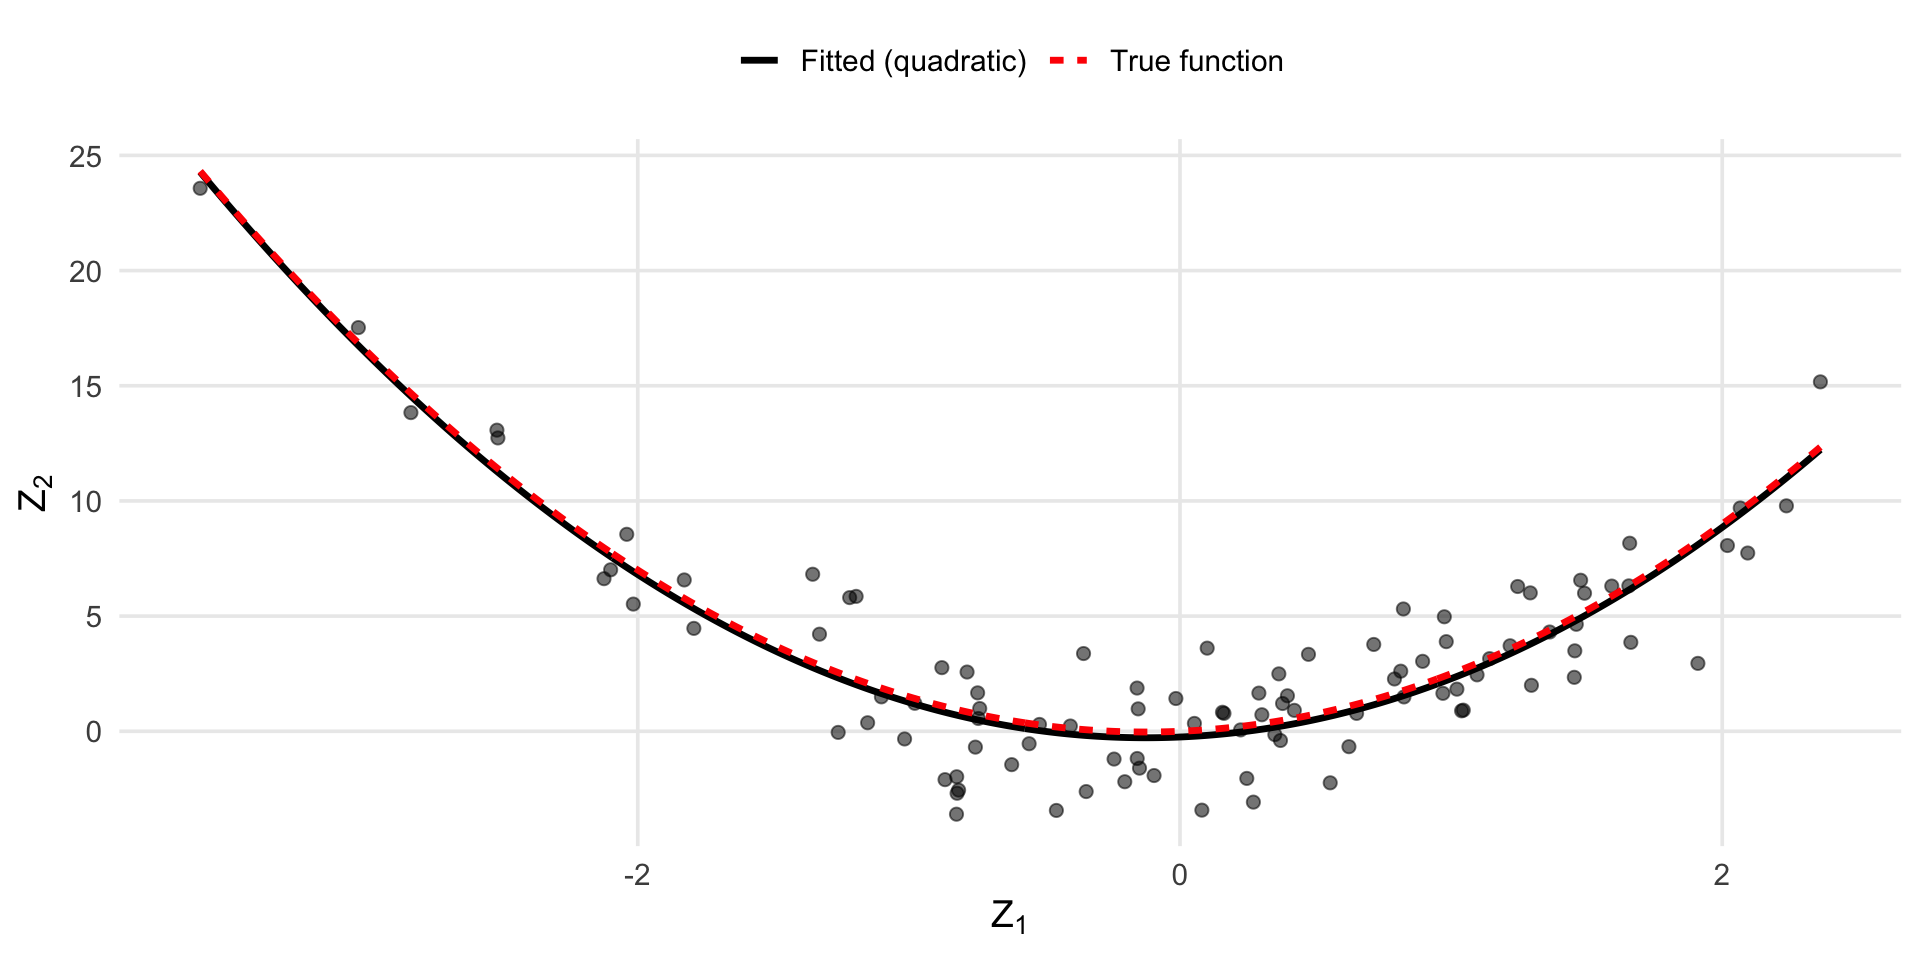
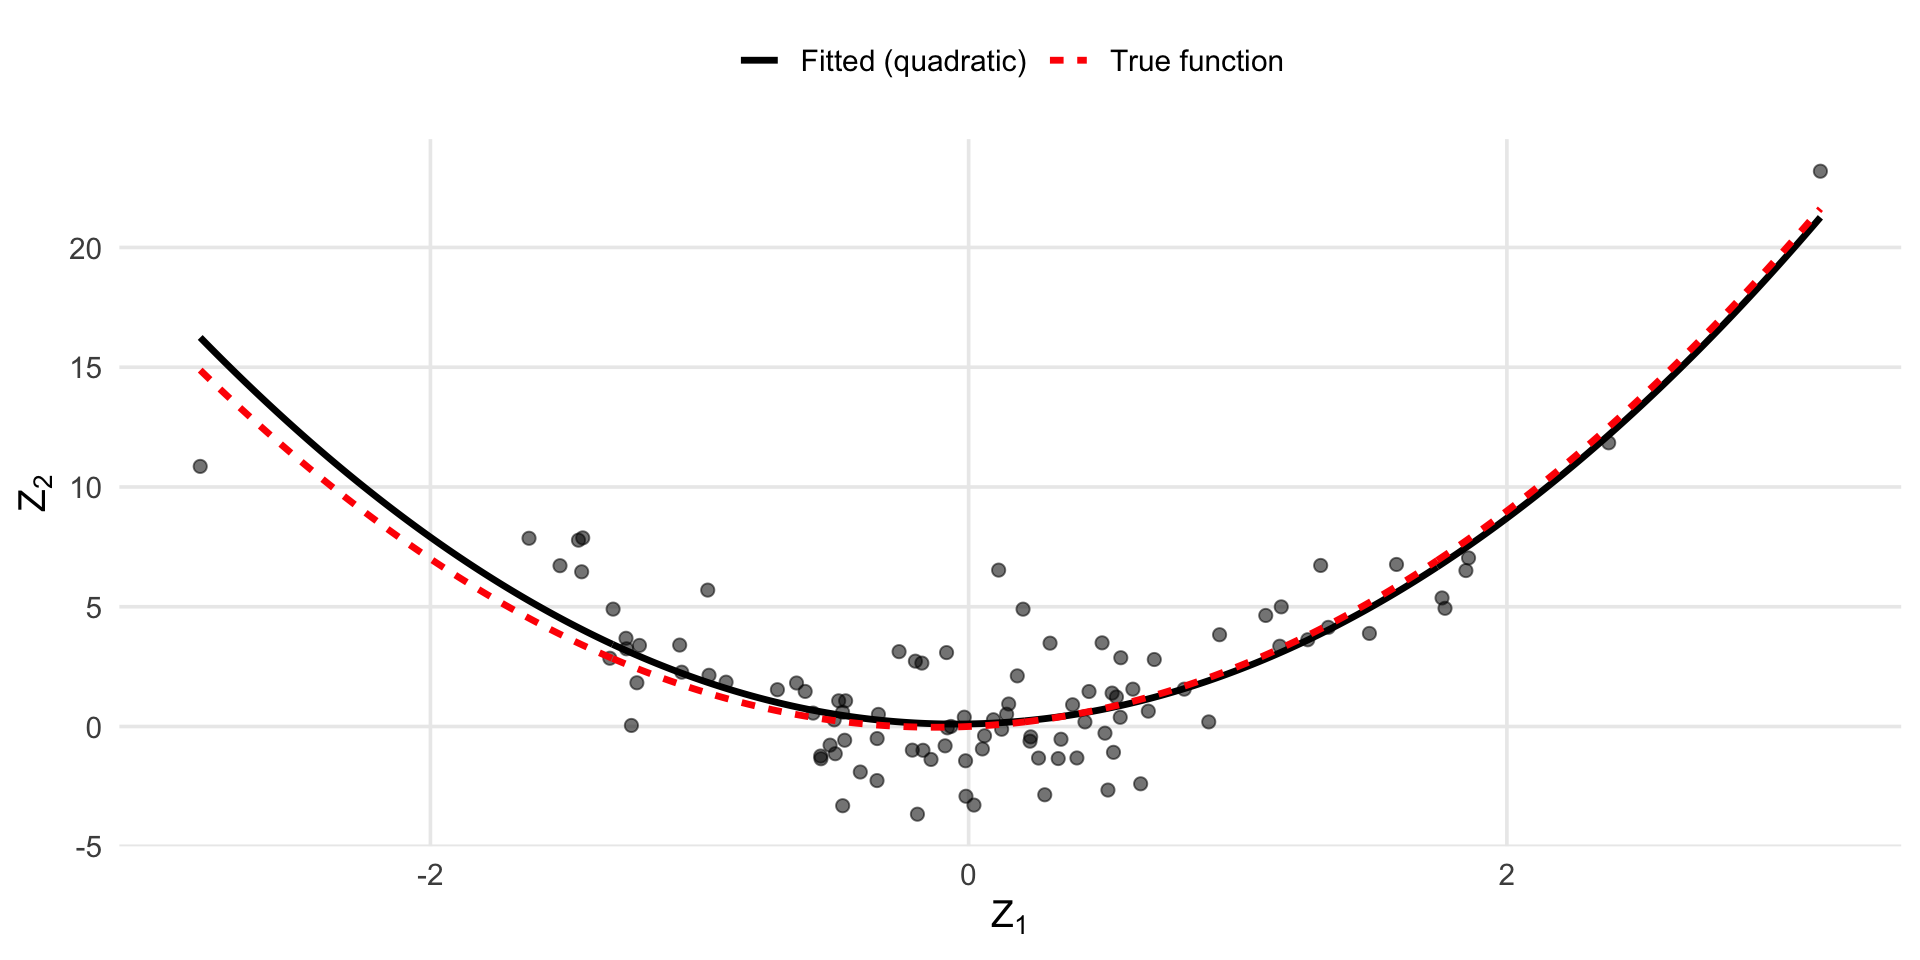
Update slides

diff --git a/docs/unit1-lect3.html b/docs/unit1-lect3.html
@@ -272,21 +272,22 @@
 <div class="code-copy-outer-scaffold"><div class="sourceCode cell-code" id="cb1"><pre class="sourceCode numberSource r number-lines code-with-copy"><code class="sourceCode r"><span id="cb1-1"><a></a>U<span class="ot">&lt;-</span><span class="fu">runif</span>(<span class="dv">10000</span>, <span class="dv">0</span>,<span class="dv">1</span>)</span>
 <span id="cb1-2"><a></a><span class="fu">head</span>(U, <span class="dv">25</span>)</span></code></pre></div><button title="Copy to Clipboard" class="code-copy-button"><i class="bi"></i></button></div>
 <div class="cell-output cell-output-stdout">
-<pre><code> [1] 0.7516654 0.7550282 0.6794609 0.7243687 0.8472480 0.9834753 0.7419241
- [8] 0.3148803 0.8193543 0.8630167 0.5155631 0.3711469 0.6978833 0.4830945
-[15] 0.6152632 0.9462419 0.9177134 0.5725926 0.3438755 0.1916295 0.1264009
-[22] 0.7358178 0.4734793 0.0273331 0.7214045</code></pre>
+<pre><code> [1] 0.032841538 0.573602457 0.672208553 0.145321894 0.845062138 0.819601608
+ [7] 0.267040804 0.068252416 0.663778837 0.041625272 0.554253296 0.019686542
+[13] 0.408139895 0.238968895 0.004440451 0.718537117 0.663751059 0.517982219
+[19] 0.787261104 0.524826337 0.275490956 0.615569528 0.513407758 0.106522914
+[25] 0.854761533</code></pre>
 </div>
 </div>
 <div class="cell">
 <div class="code-copy-outer-scaffold"><div class="sourceCode cell-code" id="cb3"><pre class="sourceCode numberSource r number-lines code-with-copy"><code class="sourceCode r"><span id="cb3-1"><a></a>Z<span class="ot">&lt;-</span><span class="fu">qnorm</span>(U, <span class="dv">0</span>, <span class="dv">1</span>)</span>
 <span id="cb3-2"><a></a><span class="fu">head</span>(Z, <span class="dv">25</span>)</span></code></pre></div><button title="Copy to Clipboard" class="code-copy-button"><i class="bi"></i></button></div>
 <div class="cell-output cell-output-stdout">
-<pre><code> [1]  0.67973970  0.69039852  0.46619196  0.59586919  1.02470167  2.13148192
- [7]  0.64928878 -0.48206391  0.91290696  1.09397333  0.03902088 -0.32881715
-[13]  0.51832225 -0.04238839  0.29306363  1.60945784  1.38985411  0.18297872
-[19] -0.40190886 -0.87190726 -1.14357065  0.63050463 -0.06652652 -1.92151988
-[25]  0.58701890</code></pre>
+<pre><code> [1] -1.84058038  0.18555329  0.44601987 -1.05671038  1.01548284  0.91384788
+ [7] -0.62178750 -1.48893368  0.42279844 -1.73212929  0.13641476 -2.06026635
+[13] -0.23233248 -0.70962326 -2.61660511  0.57850123  0.42272230  0.04509001
+[19]  0.79695392  0.06227062 -0.59628940  0.29386516  0.03361459 -1.24523378
+[25]  1.05707593</code></pre>
 </div>
 </div>
 </section>
@@ -350,8 +351,8 @@
 <p>Then:</p>
 </div>
 <ul>
-<li class="fragment"><span class="math inline">\(Z_1=\begin{cases} 1 &amp; \text{ if } U_1\leq 0.5 \\ 0 &amp; \text{ if } U_1\geq 0.5 \end{cases}\)</span></li>
-<li class="fragment"><span class="math inline">\(Z_2=\begin{cases} 1 &amp; \text{ if } U_2\leq 0.25 \text{ and } Z_1=1 \\ 0 &amp; \text{ if } U_2 \geq 0.25 \text{ and } Z_1=1 \\ 1 &amp; \text{ if } U_2\leq 0.75 \text{ and } Z_1=0   \\ 0 &amp; \text{ if } U_2\geq 0.75 \text{ and } Z_1=0 \end{cases}.\)</span></li>
+<li class="fragment"><span class="math inline">\(Z_1=\begin{cases} 1 &amp; \text{ if } U_1\leq 0.5 \\ 0 &amp; \text{ if } U_1&gt; 0.5 \end{cases}\)</span></li>
+<li class="fragment"><span class="math inline">\(Z_2=\begin{cases} 1 &amp; \text{ if } U_2\leq 0.25 \text{ and } Z_1=1 \\ 0 &amp; \text{ if } U_2 &gt; 0.25 \text{ and } Z_1=1 \\ 1 &amp; \text{ if } U_2\leq 0.75 \text{ and } Z_1=0   \\ 0 &amp; \text{ if } U_2&gt; 0.75 \text{ and } Z_1=0 \end{cases}.\)</span></li>
 </ul>
 </section>
 <section id="sampling-from-joint-distributions-3" class="slide level2">
@@ -364,12 +365,12 @@
 <span id="cb5-5"><a></a><span class="fu">prop.table</span>(<span class="fu">table</span>(Z1))[<span class="dv">2</span>]</span></code></pre></div><button title="Copy to Clipboard" class="code-copy-button"><i class="bi"></i></button></div>
 <div class="cell-output cell-output-stdout">
 <pre><code>     1 
-0.4975 </code></pre>
+0.4999 </code></pre>
 </div>
 <div class="code-copy-outer-scaffold"><div class="sourceCode cell-code" id="cb7"><pre class="sourceCode numberSource r number-lines code-with-copy"><code class="sourceCode r"><span id="cb7-1"><a></a><span class="fu">prop.table</span>(<span class="fu">table</span>(Z1, Z2), <span class="at">margin=</span><span class="dv">1</span>)[<span class="dv">2</span>, ]</span></code></pre></div><button title="Copy to Clipboard" class="code-copy-button"><i class="bi"></i></button></div>
 <div class="cell-output cell-output-stdout">
 <pre><code>        0         1 
-0.7449246 0.2550754 </code></pre>
+0.7557512 0.2442488 </code></pre>
 </div>
 </div>
 </section>
@@ -415,7 +416,7 @@ lm(formula = Z2 ~ Z1 + I(Z1^2))
 
 Coefficients:
 (Intercept)           Z1      I(Z1^2)  
-    -0.2483       0.5120       2.0194  </code></pre>
+     0.1070       0.1987       2.0487  </code></pre>
 </div>
 </div>
 </section>
@@ -444,11 +445,11 @@ Coefficients:
 <span id="cb11-7"><a></a><span class="fu">coef</span>(fit)[<span class="st">"I(Z1^2)"</span>]</span></code></pre></div><button title="Copy to Clipboard" class="code-copy-button"><i class="bi"></i></button></div>
 <div class="cell-output cell-output-stdout">
 <pre><code> I(Z1^2) 
-2.019383 </code></pre>
+2.048722 </code></pre>
 </div>
 <div class="code-copy-outer-scaffold"><div class="sourceCode cell-code" id="cb13"><pre class="sourceCode numberSource r number-lines code-with-copy"><code class="sourceCode r"><span id="cb13-1"><a></a><span class="fu">summary</span>(fit)<span class="sc">$</span>coefficients[<span class="st">"I(Z1^2)"</span>, <span class="st">"Std. Error"</span>]</span></code></pre></div><button title="Copy to Clipboard" class="code-copy-button"><i class="bi"></i></button></div>
 <div class="cell-output cell-output-stdout">
-<pre><code>[1] 0.0971504</code></pre>
+<pre><code>[1] 0.133742</code></pre>
 </div>
 </div>
 </section>
@@ -481,27 +482,27 @@ Coefficients:
 <span id="cb15-23"><a></a>}</span>
 <span id="cb15-24"><a></a><span class="fu">mean</span>(beta_0_hat <span class="sc">-</span> <span class="dv">0</span>)</span></code></pre></div><button title="Copy to Clipboard" class="code-copy-button"><i class="bi"></i></button></div>
 <div class="cell-output cell-output-stdout">
-<pre><code>[1] 0.002789423</code></pre>
+<pre><code>[1] 0.002318956</code></pre>
 </div>
 <div class="code-copy-outer-scaffold"><div class="sourceCode cell-code" id="cb17"><pre class="sourceCode numberSource r number-lines code-with-copy"><code class="sourceCode r"><span id="cb17-1"><a></a><span class="fu">mean</span>(se_beta0<span class="sc">-</span><span class="fu">sd</span>(beta_0_hat))</span></code></pre></div><button title="Copy to Clipboard" class="code-copy-button"><i class="bi"></i></button></div>
 <div class="cell-output cell-output-stdout">
-<pre><code>[1] -0.002091661</code></pre>
+<pre><code>[1] -0.001527423</code></pre>
 </div>
 <div class="code-copy-outer-scaffold"><div class="sourceCode cell-code" id="cb19"><pre class="sourceCode numberSource r number-lines code-with-copy"><code class="sourceCode r"><span id="cb19-1"><a></a><span class="fu">mean</span>(beta_1_hat <span class="sc">-</span> <span class="fl">0.5</span>)</span></code></pre></div><button title="Copy to Clipboard" class="code-copy-button"><i class="bi"></i></button></div>
 <div class="cell-output cell-output-stdout">
-<pre><code>[1] -0.0001545926</code></pre>
+<pre><code>[1] -0.00195252</code></pre>
 </div>
 <div class="code-copy-outer-scaffold"><div class="sourceCode cell-code" id="cb21"><pre class="sourceCode numberSource r number-lines code-with-copy"><code class="sourceCode r"><span id="cb21-1"><a></a><span class="fu">mean</span>(se_beta1<span class="sc">-</span><span class="fu">sd</span>(beta_1_hat))</span></code></pre></div><button title="Copy to Clipboard" class="code-copy-button"><i class="bi"></i></button></div>
 <div class="cell-output cell-output-stdout">
-<pre><code>[1] -0.002606927</code></pre>
+<pre><code>[1] -0.0003287137</code></pre>
 </div>
 <div class="code-copy-outer-scaffold"><div class="sourceCode cell-code" id="cb23"><pre class="sourceCode numberSource r number-lines code-with-copy"><code class="sourceCode r"><span id="cb23-1"><a></a><span class="fu">mean</span>(beta_2_hat <span class="sc">-</span> <span class="dv">2</span>)</span></code></pre></div><button title="Copy to Clipboard" class="code-copy-button"><i class="bi"></i></button></div>
 <div class="cell-output cell-output-stdout">
-<pre><code>[1] -0.00212436</code></pre>
+<pre><code>[1] -0.0005224367</code></pre>
 </div>
 <div class="code-copy-outer-scaffold"><div class="sourceCode cell-code" id="cb25"><pre class="sourceCode numberSource r number-lines code-with-copy"><code class="sourceCode r"><span id="cb25-1"><a></a><span class="fu">mean</span>(se_beta2<span class="sc">-</span><span class="fu">sd</span>(beta_2_hat))</span></code></pre></div><button title="Copy to Clipboard" class="code-copy-button"><i class="bi"></i></button></div>
 <div class="cell-output cell-output-stdout">
-<pre><code>[1] -0.003022693</code></pre>
+<pre><code>[1] -0.004294872</code></pre>
 </div>
 </div>
 </section>
